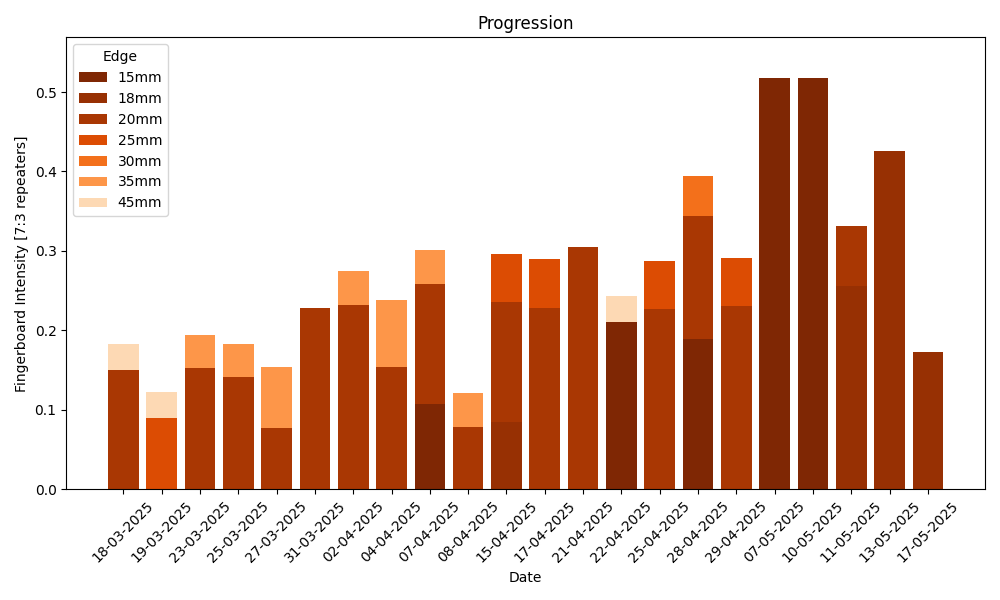
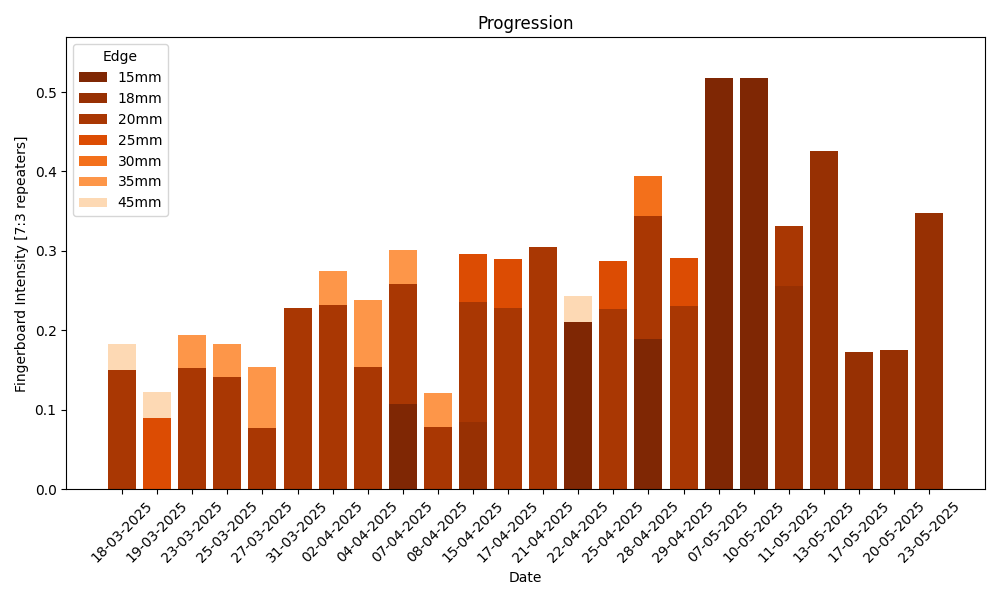
add grades

Changed region(s): [[0.093, 0.12, 0.961, 0.93]]

diff --git a/src/crimpy/intensity.py b/src/crimpy/intensity.py
@@ -225,7 +225,7 @@ class WorkoutIntensityCalculator:
             "v6": 0.25,
             "v7": 0.4,
         }
-        FAILURE_MALUS = 0.1
+        FAILURE_MALUS = 0.12 # if not completed: 12% of total
         K_proj = 1
 
         total_intensity = 0.0
@@ -274,10 +274,11 @@ class WorkoutIntensityCalculator:
             "5b": 0.18, "5b+": 0.18, "5c": 0.2, "5c+": 0.225,
             "6a": 0.25, "6a+": 0.3, "6b": 0.35, "6b+": 0.4,
             "6c": 0.5, "6c+": 0.6, "7a": 0.7, "7a+": 0.85,
+            "7b": 0.98
         }
-        BONUS_FACTOR = 0.10  # +10% once per grade
-        MALUS_FACTOR = 0.5  # failed attempts score 50%
-        TOPOPE_MALUS = 0.2  # −20% on toprope sets
+        #BONUS_FACTOR = 0.10  # +10% once per grade
+        MALUS_FACTOR = 0.4  # failed attempts score 50%
+        TOPROPE_MALUS = 0.2  # −20% on toprope sets
 
         total = 0.0
         seen_bonus = set()
@@ -309,13 +310,13 @@ class WorkoutIntensityCalculator:
                 score = base * full_count + base * MALUS_FACTOR * fail_count
 
                 # 2) one‐time success bonus
-                if success and grade not in seen_bonus:
-                    score += base * BONUS_FACTOR
-                    seen_bonus.add(grade)
+                #if success and grade not in seen_bonus:
+                #    score += base * BONUS_FACTOR
+                #    seen_bonus.add(grade)
 
                 # 3) toprope malus
                 if is_toprope:
-                    score *= (1.0 - TOPOPE_MALUS)
+                    score *= (1.0 - TOPROPE_MALUS)
 
                 total += score
 
